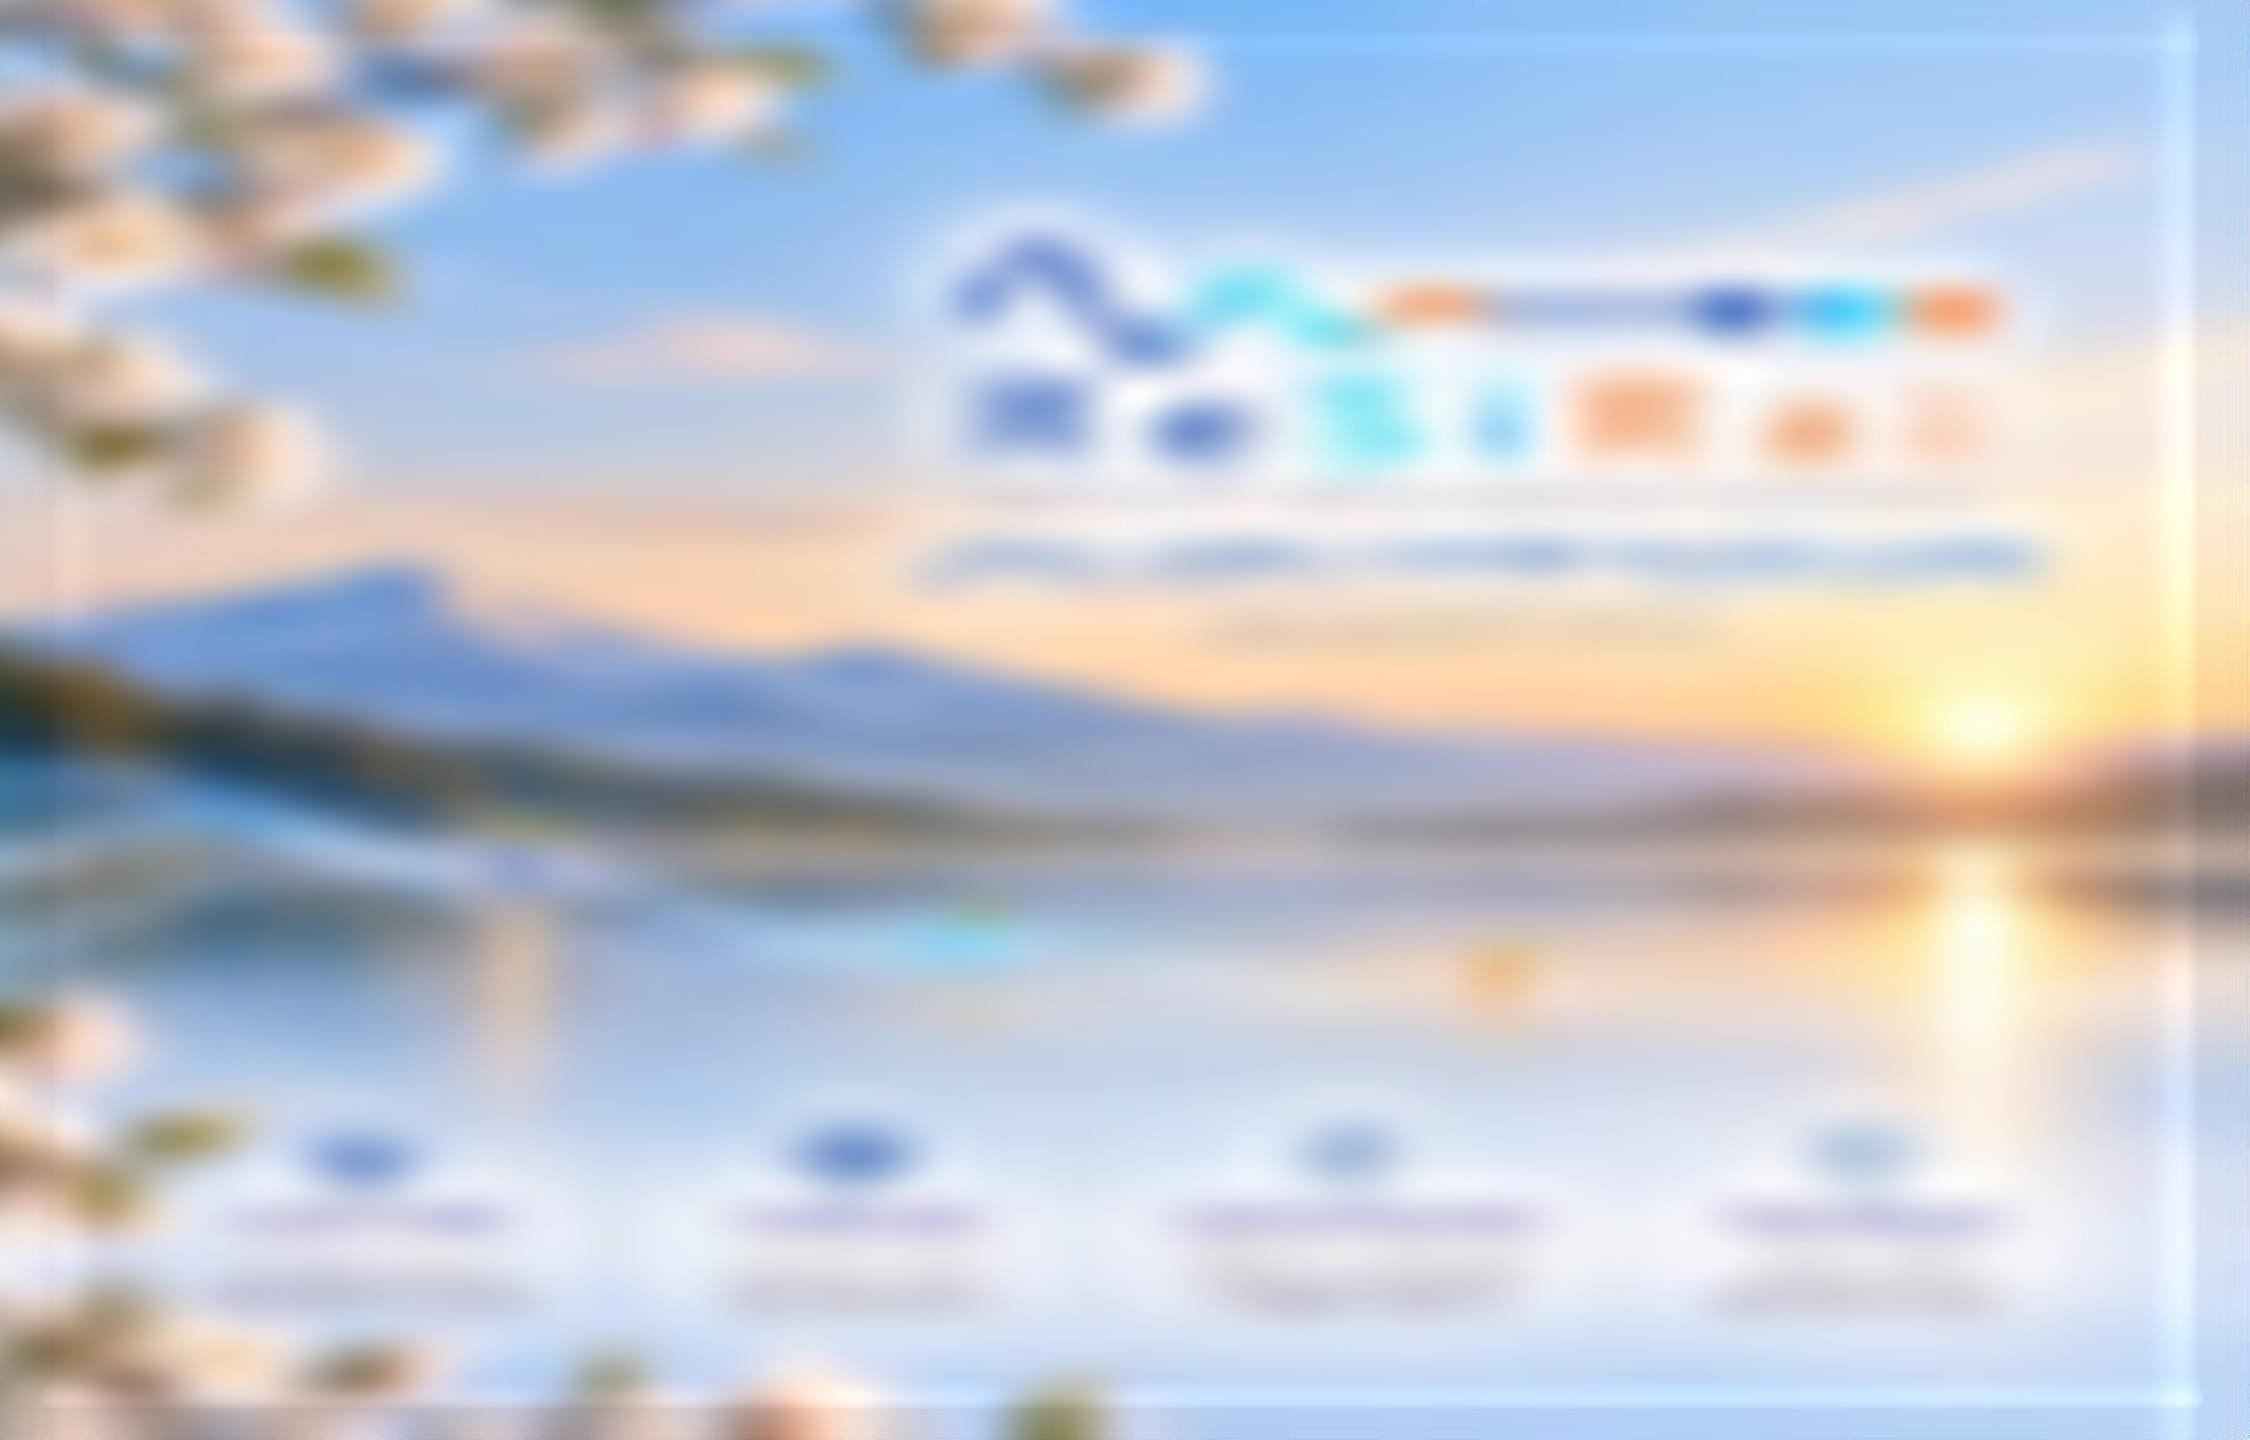
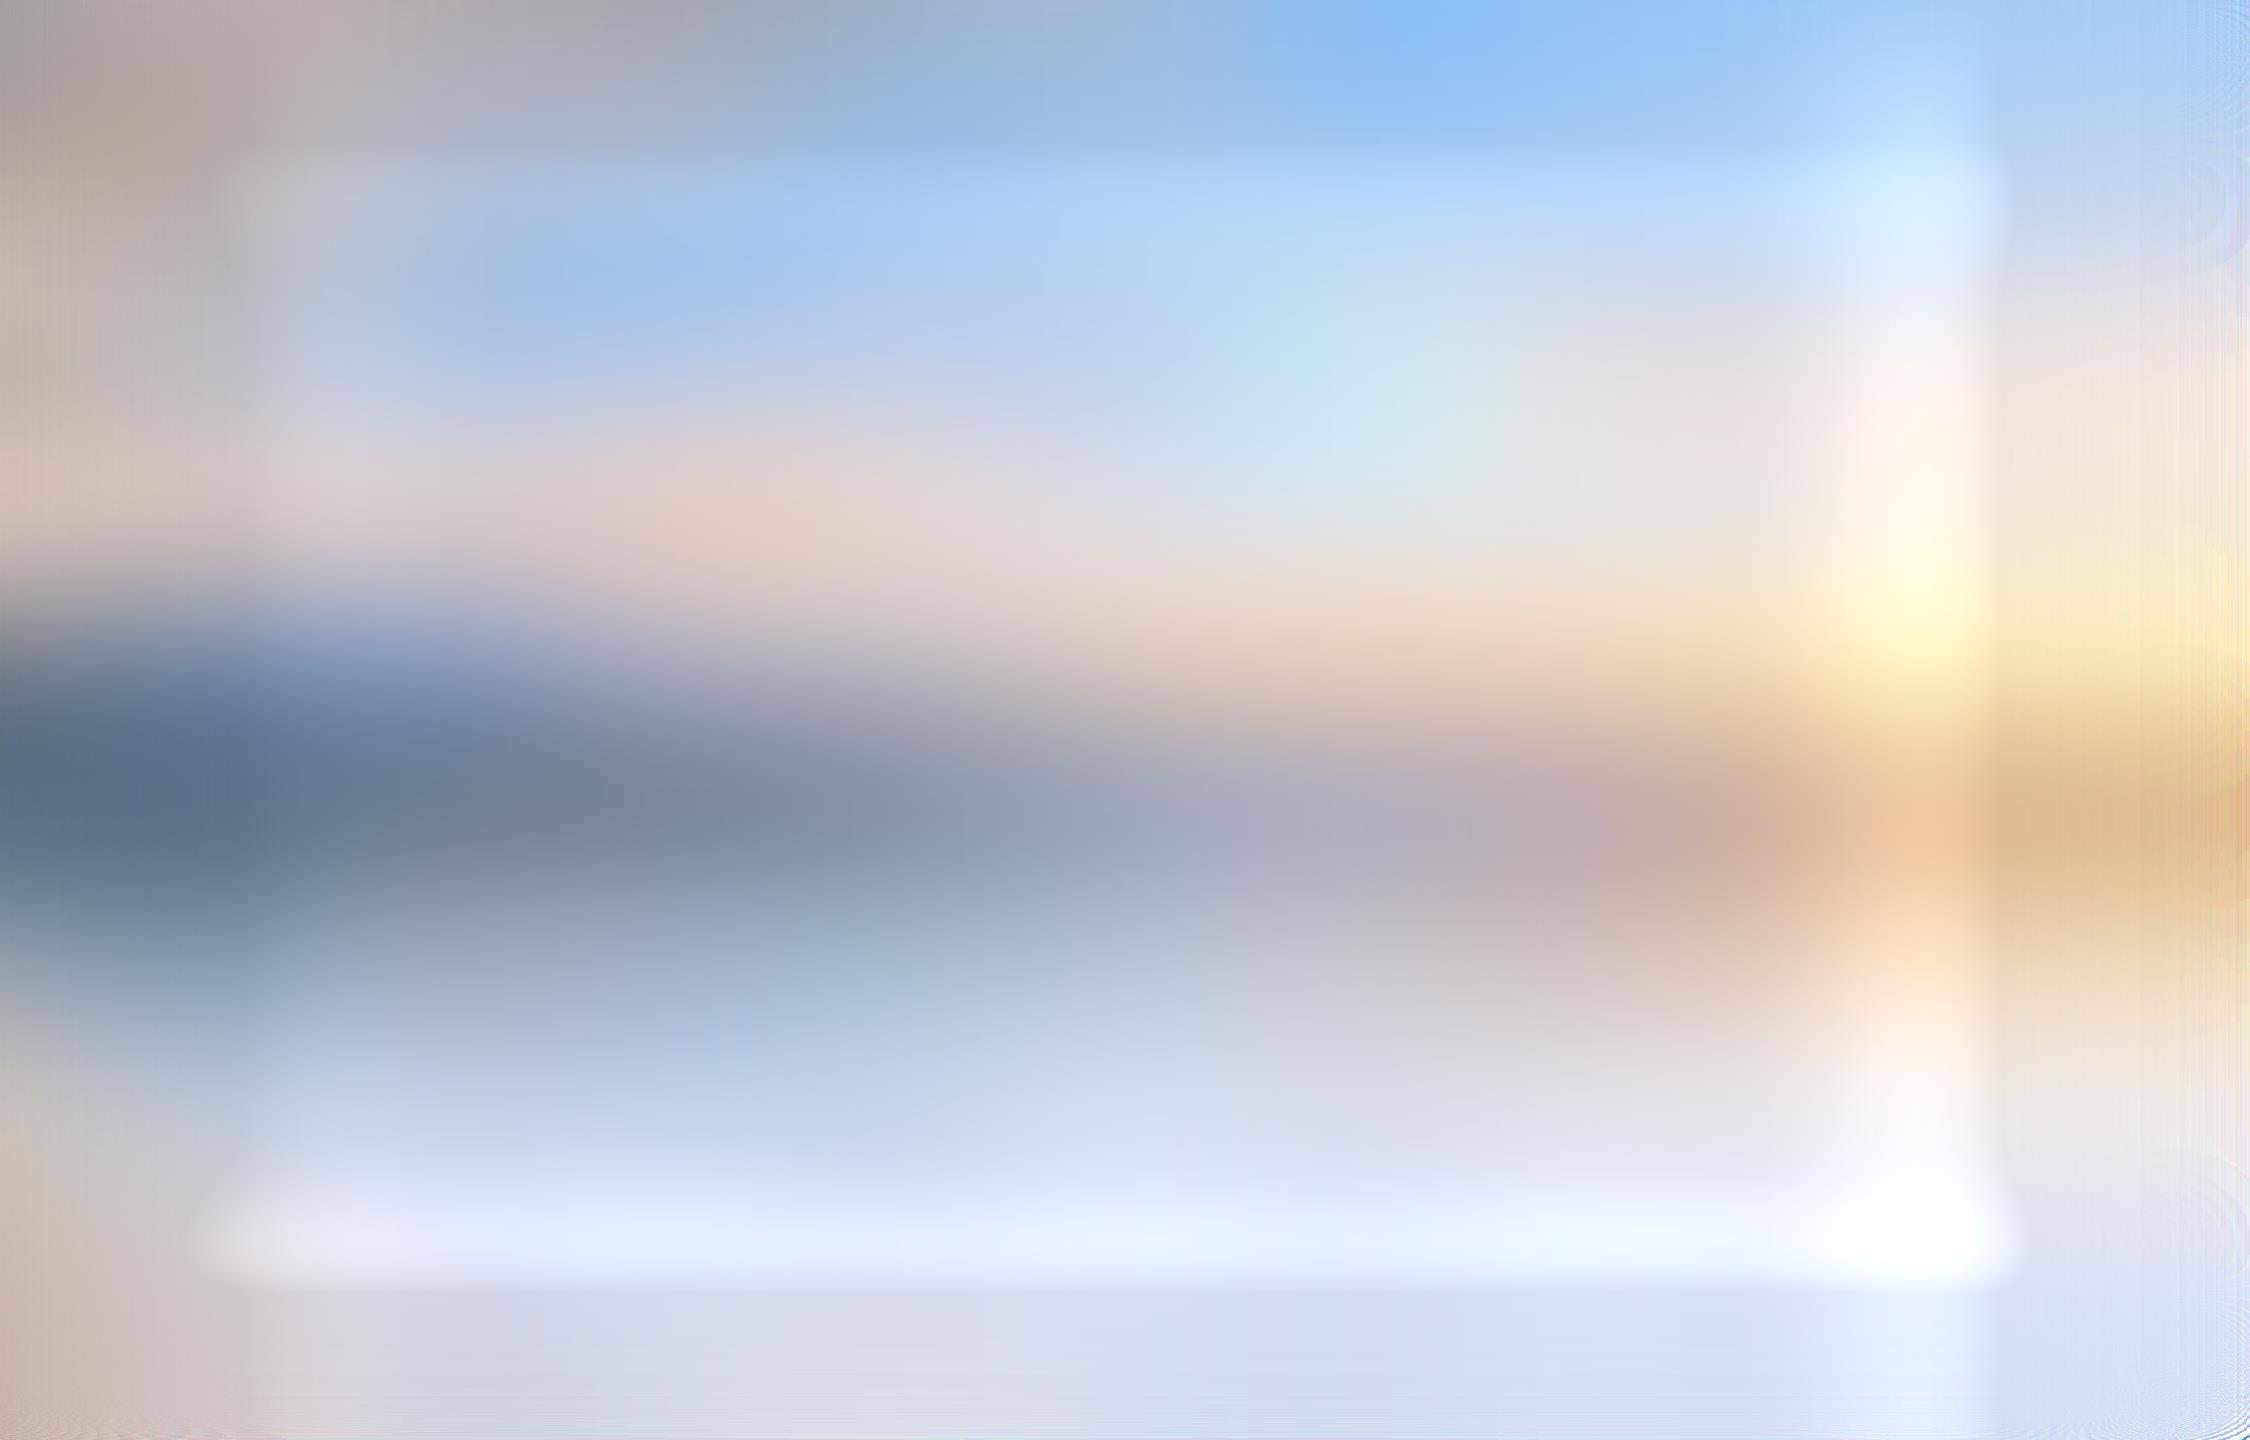
پسصحنه با بلور قوی و حجاب آسمان + شروع حجاب از لبه واقعی عکس — 2026101120

diff --git a/ReSiRai.Api/wwwroot/css/login-final.css b/ReSiRai.Api/wwwroot/css/login-final.css
@@ -493,10 +493,11 @@ url('/images/login-hero-final.svg?v=1') center 56%/100% auto no-repeat,#e6f6fc}
     width:100%!important;height:100vh!important;min-height:100vh!important;max-height:none!important;
     padding:0!important;
     background:
-      linear-gradient(to right, rgba(223,242,251,0) 46%, rgba(223,242,251,.72) 55%),
+      linear-gradient(to right, rgba(223,242,251,0) 51%, rgba(223,242,251,.70) 60%),
       url('/images/design50-hero.jpg?v=51') left top/auto 100% no-repeat,
-      url('/images/login-hero-bg.jpg?v=1') center center/cover no-repeat,
-      #dff2fb!important
+      linear-gradient(rgba(223,242,251,.28), rgba(223,242,251,.28)),
+      url('/images/login-hero-bg.jpg?v=2') center center/cover no-repeat,
+      #eaf5fb!important
   }
   /* نوشتهها و نوارِ ویژگیها حذف تا تصویر شفاف و تمامصفحه بماند */
   #reSiRaiLoginScreen .login-brand-logo,

diff --git a/ReSiRai.Api/wwwroot/index.html b/ReSiRai.Api/wwwroot/index.html
@@ -326,7 +326,7 @@ window.addEventListener('DOMContentLoaded',function(){
 
 <!-- لینکِ مستقلِ ثبتنامِ پزشک (خارج از JS: همیشه، حتی با کشِ قدیمی اسکریپتها) -->
 <div id="loginSignupLink" style="display:none;position:fixed;bottom:14px;left:0;right:0;text-align:center;z-index:1040;font:600 14px/1.9 Tahoma,Arial"><a href="/signup.html" style="color:#0f766e;text-decoration:none;background:#fff;border:1px solid #0f766e;border-radius:999px;padding:6px 18px">ثبتنام پزشک جدید — خرید حساب</a></div>
-<script src="/js/login-ui.js?v=20261009.7"></script>
+<script src="/js/login-ui.js?v=20261009.8"></script>
 <script src="/js/app.js?v=20261008.4"></script>
 <script src="/js/visit-draft.js?v=20261008.5"></script>
 <script src="/js/patient-draft.js?v=20261008.5"></script>

diff --git a/ReSiRai.Api/wwwroot/js/login-ui.js b/ReSiRai.Api/wwwroot/js/login-ui.js
@@ -73,7 +73,7 @@
 
   function ensureLoginStyles(){
     if(document.getElementById('reSiRaiFinalLoginCss'))return;
-    const l=document.createElement('link');l.id='reSiRaiFinalLoginCss';l.rel='stylesheet';l.href='/css/login-final.css?v=20261009.7';document.head.appendChild(l);
+    const l=document.createElement('link');l.id='reSiRaiFinalLoginCss';l.rel='stylesheet';l.href='/css/login-final.css?v=20261009.8';document.head.appendChild(l);
   }
 
   function updateLoginViewport(){
